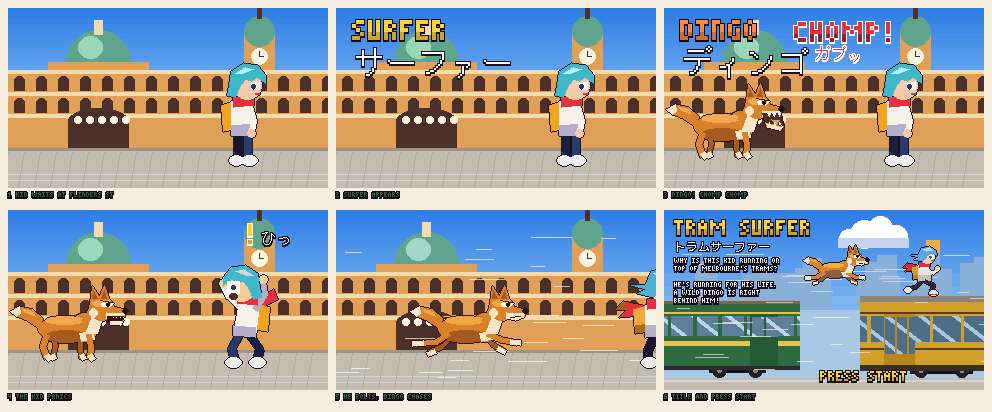
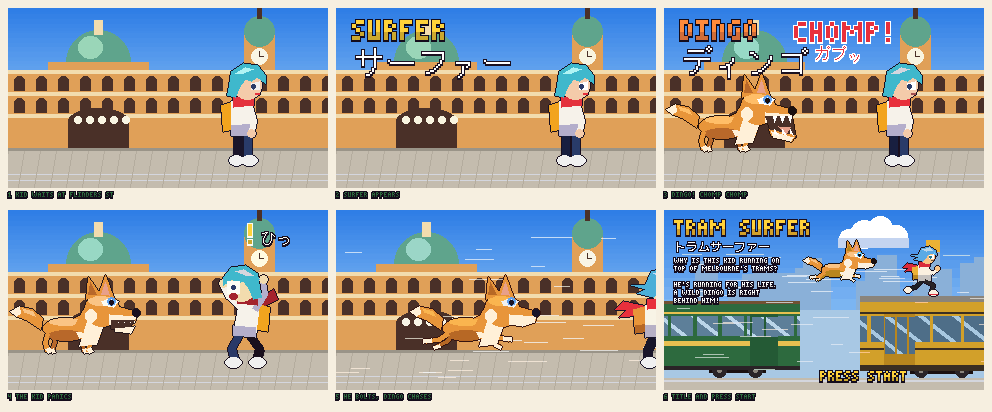
Use the chosen Pup dingo in the intro and start screen
Claude-Session: https://claude.ai/code/session_01KdqaUZvYP4dHZn966imf5E

diff --git a/concept/characters.py b/concept/characters.py
@@ -413,7 +413,7 @@ def start_screen():
         img[y, x:x + L] = img[y, x:x + L] * 0.4 + 255 * 0.6
     # the chase: kid on the Z roof, dingo leaping the gap
     paste(img, kid_sprite(1.0), 238, int(ground - 3.4 * ppm) - 52)
-    paste(img, dingo_sprite("red", 0.72), 132, int(ground - 3.2 * ppm) - 64)
+    paste(img, dingo_sprite("pup", 0.72), 132, int(ground - 3.2 * ppm) - 64)
     # title and story
     text(img, 10, 10, "TRAM SURFER", "#ffd23a", 3, "#1a1020")
     jp_text(img, 10, 30, "トラムサーファー", "#ffffff")
@@ -494,8 +494,8 @@ def intro():
     ground = 152
     kid = {p: kid_sprite(2.0, p) for p in ("stand", "run", "run2")}
     kid["scared"] = kid_sprite(2.0, "scared", flip=True)
-    dg = {m: dingo_sprite("red", 1.3, pose="stand", mouth=m) for m in ("shut", "open")}
-    drun = dingo_sprite("red", 1.3)
+    dg = {m: dingo_sprite("pup", 1.3, pose="stand", mouth=m) for m in ("shut", "open")}
+    drun = dingo_sprite("pup", 1.3)
     frames = []
 
     def frame(ms, kpose=None, kx=190, dpose=None, dx=0, words=(), streaks=False):

diff --git a/concept/README.md b/concept/README.md
@@ -19,7 +19,7 @@ Character art comes from `characters.py`:
 
 | File | What |
 | --- | --- |
-| `images/h-dingo-designs.png` | Four takes on the wild dingo chaser (no collar): Red, Pup, Scar, Yokai |
+| `images/h-dingo-designs.png` | Four takes on the wild dingo chaser (no collar): Red, Pup (chosen), Scar, Yokai |
 | `images/i-start-screen.png` | Start screen with the story text |
 | `images/j-intro.gif` | Intro animation: SURFER, the dingo chomps (DINGO), the kid bolts |
 | `images/j-intro-storyboard.png` | Six key frames of the intro |
